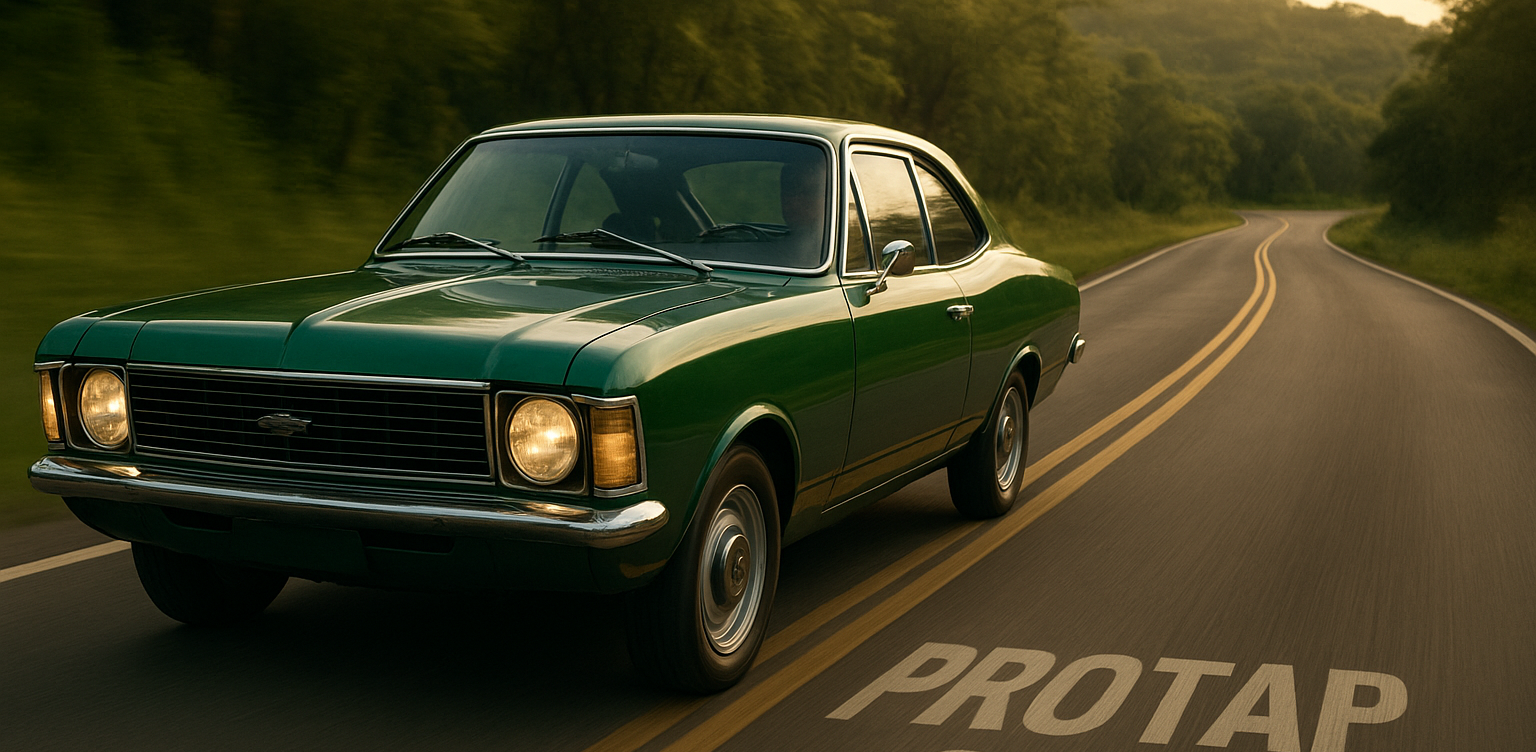
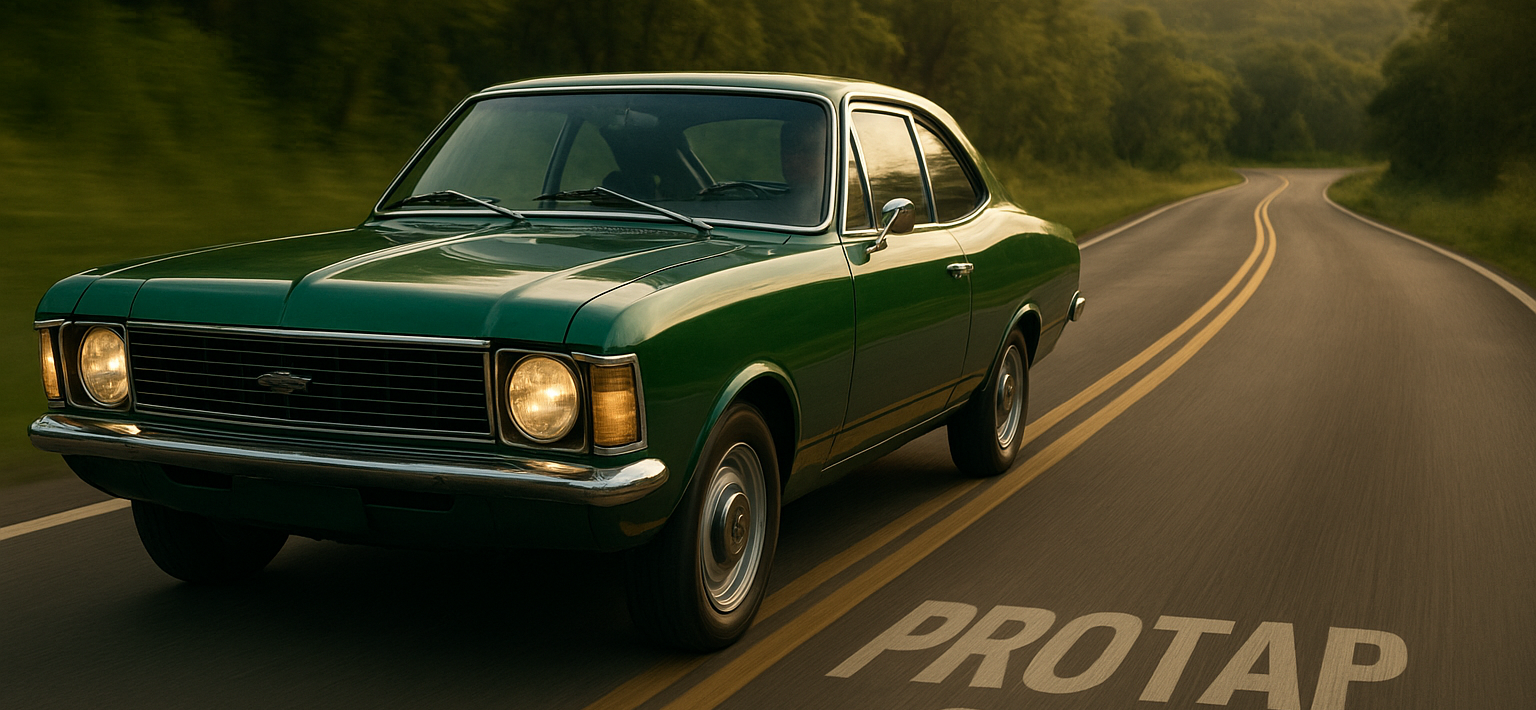
update

diff --git a/src/app/layout.tsx b/src/app/layout.tsx
@@ -58,7 +58,7 @@ export default function RootLayout({ children }: { children: React.ReactNode }) 
         <AuthProvider>
           <CartProvider>
             {/* Navbar moderna */}
-            <header className="fixed w-full top-0 left-0 z-30 flex justify-center bg-black backdrop-blur-sm shadow-md">
+            <header className="fixed w-full top-0 left-0 z-30 flex justify-center bg-black/85 backdrop-blur-sm shadow-md">
               <div className="flex items-center justify-between max-w-[1400px] w-full px-6 sm:px-12 lg:px-24 py-5">
                 {/* Logo */}
                 <Link href={"/"}>

diff --git a/src/app/Components/banner.tsx b/src/app/Components/banner.tsx
@@ -50,7 +50,7 @@ export default function Banner() {
 
   return (
     <div
-      className="-mt-24 w-full relative overflow-hidden"
+      className="-mt-36 w-full relative overflow-hidden"
       onTouchStart={handleTouchStart}
       onTouchEnd={handleTouchEnd}
     >
